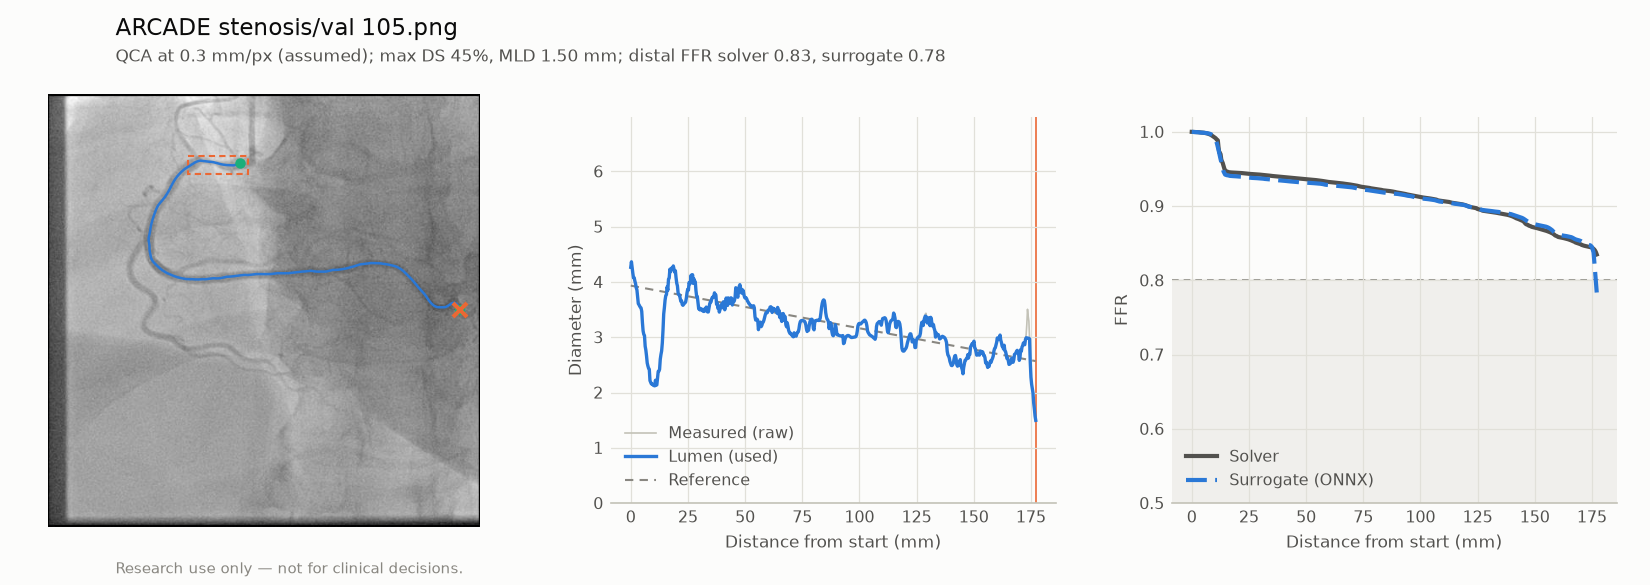
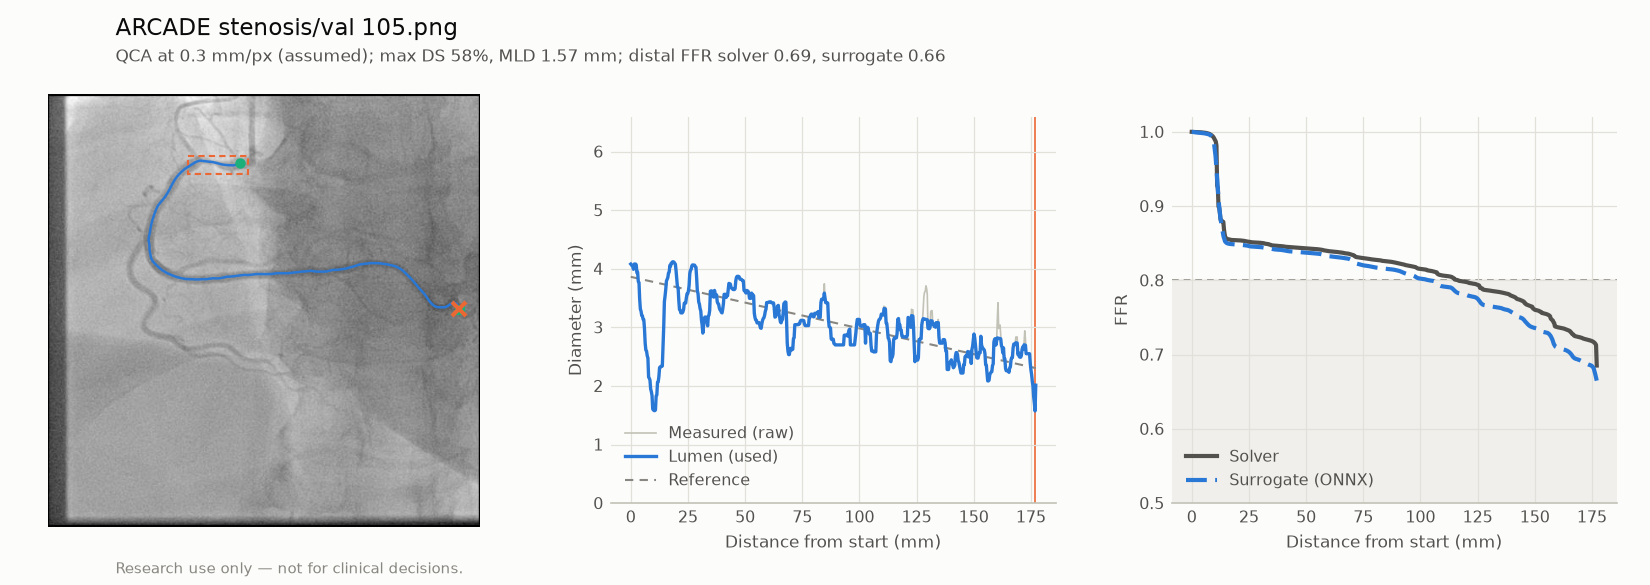
P4c: ARCADE QCA gallery regenerated (intensity edges, D43 + D45)

diff --git a/reports/qca_gallery.md b/reports/qca_gallery.md
@@ -4,34 +4,34 @@
 
 Generated by `vstent qca-gallery`. Do not edit by hand.
 
-The first 20 `stenosis/val` images (by COCO id). For each one the longest path of the largest segmented vessel component is selected automatically, so it often is **not** the vessel with the annotated stenosis. Pixel size: 0.30 mm/px **assumed** (ARCADE has no calibration), so lengths, diameters and FFR are illustrative only. The model has no side branches: the full inflow is carried along the whole path, so long paths that taper into thin distal branches show large viscous pressure losses that real flow, which leaves through the branches, would not produce. Dashed orange boxes: ARCADE stenosis annotations.
+The first 20 `stenosis/val` images (by COCO id). For each one the longest path of the largest segmented vessel component is selected automatically, so it often is **not** the vessel with the annotated stenosis. Pixel size: 0.30 mm/px **assumed** (ARCADE has no calibration), so lengths, diameters and FFR are illustrative only. The model has no side branches: the full inflow is carried along the whole path, so long paths that taper into thin distal branches show large viscous pressure losses that real flow, which leaves through the branches, would not produce. Dashed orange boxes: ARCADE stenosis annotations. Lumen edges: from the image intensity, guided by the segmentation (the product default, D43).
 
 - Analysed: 20 of 20 (failed: 0).
-- Auto-selected path crosses an annotated stenosis box: 20; of those, point of maximum %DS inside a box: 8, MLD (narrowest absolute diameter, often in a thin distal branch) inside a box: 2.
+- Auto-selected path crosses an annotated stenosis box: 20; of those, point of maximum %DS inside a box: 10, MLD (narrowest absolute diameter, often in a thin distal branch) inside a box: 2.
 - Outside the surrogate's training range (mostly vessel length): 19 of 20.
-- Median |distal FFR solver − surrogate|: 0.033
+- Median |distal FFR solver − surrogate|: 0.030
 
 | Image | Path (mm) | Max DS (%) | MLD (mm) | FFR solver | FFR surrogate | Boxes | Path crosses box | Max DS in box | MLD in box |
 |---|---|---|---|---|---|---|---|---|---|
-| [val_1](figures/qca_examples/val_1.png) | 161 | 65 | 0.91 | 0.29 | 0.30 | 1 | yes | no | no |
-| [val_10](figures/qca_examples/val_10.png) | 109 | 31 | 0.78 | 0.06 | 0.02 | 1 | yes | yes | no |
-| [val_100](figures/qca_examples/val_100.png) | 198 | 45 | 1.62 | 0.82 | 0.79 | 2 | yes | yes | no |
-| [val_101](figures/qca_examples/val_101.png) | 125 | 42 | 1.21 | 0.70 | 0.66 | 3 | yes | yes | no |
-| [val_102](figures/qca_examples/val_102.png) | 243 | 63 | 0.86 | 0.64 | 0.65 | 2 | yes | no | no |
-| [val_103](figures/qca_examples/val_103.png) | 161 | 43 | 0.89 | 0.49 | 0.43 | 3 | yes | no | no |
-| [val_104](figures/qca_examples/val_104.png) | 265 | 57 | 1.38 | 0.81 | 0.79 | 3 | yes | no | no |
-| [val_105](figures/qca_examples/val_105.png) | 177 | 45 | 1.50 | 0.83 | 0.78 | 1 | yes | yes | no |
-| [val_106](figures/qca_examples/val_106.png) | 148 | 78 | 0.89 | 0.25 | 0.25 | 1 | yes | no | no |
-| [val_107](figures/qca_examples/val_107.png) | 139 | 84 | 0.33 | 0.21 | 0.38 | 2 | yes | no | no |
-| [val_108](figures/qca_examples/val_108.png) | 198 | 31 | 1.68 | 0.60 | 0.64 | 1 | yes | no | no |
-| [val_109](figures/qca_examples/val_109.png) | 179 | 30 | 1.69 | 0.78 | 0.74 | 2 | yes | no | no |
-| [val_11](figures/qca_examples/val_11.png) | 151 | 21 | 1.38 | 0.77 | 0.76 | 2 | yes | no | no |
-| [val_110](figures/qca_examples/val_110.png) | 68 | 51 | 1.25 | 0.84 | 0.82 | 2 | yes | yes | yes |
-| [val_111](figures/qca_examples/val_111.png) | 242 | 58 | 1.16 | 0.32 | 0.32 | 4 | yes | yes | no |
-| [val_112](figures/qca_examples/val_112.png) | 142 | 43 | 2.06 | 0.76 | 0.74 | 4 | yes | yes | yes |
-| [val_113](figures/qca_examples/val_113.png) | 159 | 64 | 0.77 | 0.55 | 0.49 | 1 | yes | no | no |
-| [val_114](figures/qca_examples/val_114.png) | 151 | 37 | 1.02 | 0.06 | 0.13 | 8 | yes | yes | no |
-| [val_115](figures/qca_examples/val_115.png) | 174 | 69 | 1.02 | 0.37 | 0.45 | 2 | yes | no | no |
-| [val_116](figures/qca_examples/val_116.png) | 229 | 54 | 1.16 | 0.48 | 0.49 | 3 | yes | no | no |
+| [val_1](figures/qca_examples/val_1.png) | 161 | 77 | 0.65 | 0.17 | 0.15 | 1 | yes | no | no |
+| [val_10](figures/qca_examples/val_10.png) | 110 | 32 | 0.79 | 0.06 | -0.18 | 1 | yes | yes | no |
+| [val_100](figures/qca_examples/val_100.png) | 199 | 59 | 1.49 | 0.59 | 0.56 | 2 | yes | yes | no |
+| [val_101](figures/qca_examples/val_101.png) | 125 | 59 | 0.93 | 0.38 | 0.37 | 3 | yes | yes | no |
+| [val_102](figures/qca_examples/val_102.png) | 243 | 56 | 0.94 | 0.57 | 0.57 | 2 | yes | no | no |
+| [val_103](figures/qca_examples/val_103.png) | 162 | 58 | 0.78 | 0.26 | 0.27 | 3 | yes | yes | no |
+| [val_104](figures/qca_examples/val_104.png) | 265 | 52 | 1.38 | 0.76 | 0.71 | 3 | yes | no | no |
+| [val_105](figures/qca_examples/val_105.png) | 177 | 58 | 1.57 | 0.69 | 0.66 | 1 | yes | yes | no |
+| [val_106](figures/qca_examples/val_106.png) | 148 | 78 | 0.92 | 0.24 | 0.32 | 1 | yes | no | no |
+| [val_107](figures/qca_examples/val_107.png) | 138 | 85 | 0.33 | 0.19 | 0.48 | 2 | yes | no | no |
+| [val_108](figures/qca_examples/val_108.png) | 198 | 67 | 0.89 | 0.26 | 0.32 | 1 | yes | no | no |
+| [val_109](figures/qca_examples/val_109.png) | 179 | 50 | 1.65 | 0.66 | 0.59 | 2 | yes | yes | no |
+| [val_11](figures/qca_examples/val_11.png) | 152 | 39 | 1.13 | 0.51 | 0.50 | 2 | yes | no | no |
+| [val_110](figures/qca_examples/val_110.png) | 68 | 56 | 1.05 | 0.71 | 0.72 | 2 | yes | yes | yes |
+| [val_111](figures/qca_examples/val_111.png) | 242 | 70 | 0.91 | 0.18 | 0.17 | 4 | yes | yes | no |
+| [val_112](figures/qca_examples/val_112.png) | 143 | 58 | 1.17 | 0.49 | 0.53 | 4 | yes | yes | yes |
+| [val_113](figures/qca_examples/val_113.png) | 159 | 67 | 1.05 | 0.36 | 0.33 | 1 | yes | no | no |
+| [val_114](figures/qca_examples/val_114.png) | 151 | 42 | 0.70 | 0.06 | -0.24 | 8 | yes | yes | no |
+| [val_115](figures/qca_examples/val_115.png) | 174 | 67 | 1.02 | 0.32 | 0.38 | 2 | yes | no | no |
+| [val_116](figures/qca_examples/val_116.png) | 229 | 50 | 0.86 | 0.57 | 0.64 | 3 | yes | no | no |
 
-Models: segmentation `models/seg/seg_unet_r34-20261028-141743`, surrogate `models/surrogate/unet1d-20261028-125810`. Commit `6b388bc15b3e0367f7e3b90d252065a3738e1942` (dirty: False), 2026-10-28T14:58:01+00:00.
+Models: segmentation `models/seg/seg_unet_r34-20261028-141743`, surrogate `models/surrogate/unet1d_ens5-20261030-113237`. Commit `8856a9ef6d021fad94285ae8e6c9350943678bcf` (dirty: False), 2026-10-31T20:36:09+00:00.
